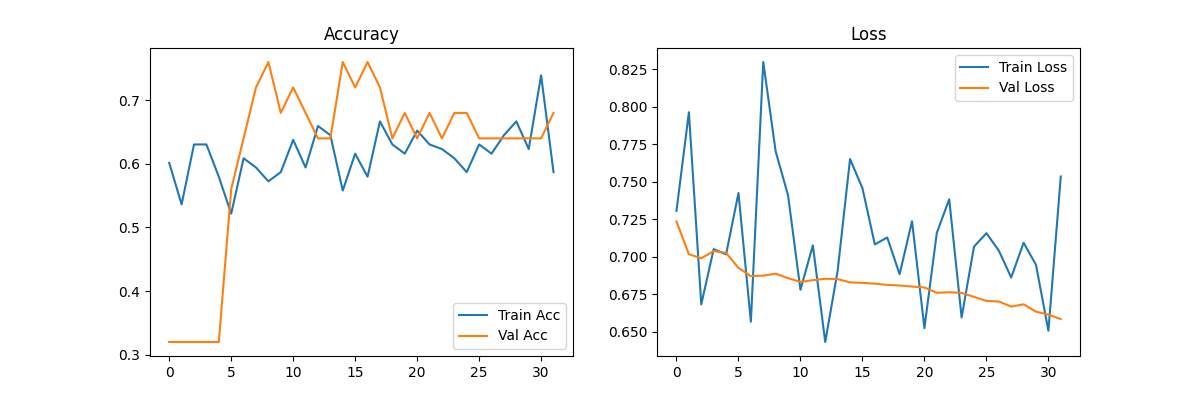
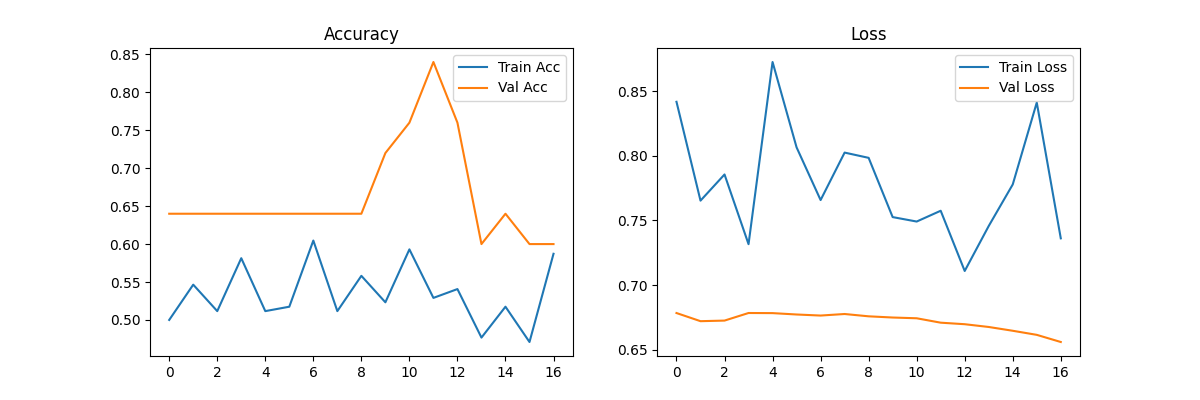
feat: MRI CNN model v0.2 - patient-level split, balanced dataset - AUC 0.64

diff --git a/scripts/train_mri_model.py b/scripts/train_mri_model.py
@@ -5,15 +5,15 @@ import tensorflow as tf
 from tensorflow.keras import layers, models
 from tensorflow.keras.applications import EfficientNetB4
 from tensorflow.keras.callbacks import ModelCheckpoint, EarlyStopping, ReduceLROnPlateau
-from sklearn.model_selection import train_test_split
+from sklearn.model_selection import GroupShuffleSplit
 from sklearn.utils import shuffle
 import matplotlib
 matplotlib.use('Agg')
 import matplotlib.pyplot as plt
 
 # ── CONFIG ──────────────────────────────────────────────
-AD_DIR   = 'datasets/converted_nii'
-CN_DIR   = 'datasets/converted_nii_cn'
+AD_DIR    = 'datasets/converted_nii'
+CN_DIR    = 'datasets/converted_nii_cn'
 MODEL_DIR = 'models'
 IMG_SIZE  = 128
 BATCH     = 8
@@ -24,54 +24,77 @@ os.makedirs(MODEL_DIR, exist_ok=True)
 def load_nii_slice(path, size=IMG_SIZE):
     try:
         img = nib.load(path).get_fdata()
-        # Take middle axial slice
+        if img.ndim < 3:
+            return None
         mid = img.shape[2] // 2
         slc = img[:, :, mid]
-        # Normalize
         slc = (slc - slc.min()) / (slc.max() - slc.min() + 1e-8)
-        # Resize to IMG_SIZE x IMG_SIZE
         slc = tf.image.resize(slc[..., np.newaxis], [size, size]).numpy()
-        # Convert to 3-channel for EfficientNet
         slc = np.concatenate([slc, slc, slc], axis=-1)
         return slc.astype(np.float32)
     except:
         return None
 
+# ── EXTRACT PATIENT ID FROM FILENAME ────────────────────
+def get_patient_id(filename):
+    # Format: 003_S_1059_xxx.nii → patient = 003_S_1059
+    parts = filename.split('_')
+    if len(parts) >= 3:
+        return f"{parts[0]}_{parts[1]}_{parts[2]}"
+    return filename
+
 # ── LOAD DATASET ────────────────────────────────────────
 print("Loading AD scans...")
-X, y = [], []
+X, y, groups = [], [], []
 
-for f in os.listdir(AD_DIR):
+for f in sorted(os.listdir(AD_DIR)):
     if f.endswith('.nii'):
         data = load_nii_slice(os.path.join(AD_DIR, f))
         if data is not None:
             X.append(data)
-            y.append(1)  # AD = 1
+            y.append(1)
+            groups.append(get_patient_id(f))
 
-print(f"  Loaded {y.count(1)} AD scans")
+print(f"  Loaded {sum(1 for label in y if label == 1)} AD scans")
 
 print("Loading CN scans...")
-for f in os.listdir(CN_DIR):
+for f in sorted(os.listdir(CN_DIR)):
     if f.endswith('.nii'):
         data = load_nii_slice(os.path.join(CN_DIR, f))
         if data is not None:
             X.append(data)
-            y.append(0)  # CN = 0
+            y.append(0)
+            groups.append(get_patient_id(f))
 
-print(f"  Loaded {y.count(0)} CN scans")
+print(f"  Loaded {sum(1 for label in y if label == 0)} CN scans")
 
 X = np.array(X)
 y = np.array(y)
-X, y = shuffle(X, y, random_state=42)
+groups = np.array(groups)
+X, y, groups = shuffle(X, y, groups, random_state=42)
 print(f"\nTotal dataset: {len(X)} scans | Shape: {X.shape}")
+print(f"Unique patients: {len(set(groups))}")
 
-# ── TRAIN/VAL/TEST SPLIT ────────────────────────────────
-X_train, X_test, y_train, y_test = train_test_split(
-    X, y, test_size=0.2, random_state=42, stratify=y)
-X_train, X_val, y_train, y_val = train_test_split(
-    X_train, y_train, test_size=0.15, random_state=42, stratify=y_train)
+# ── PATIENT-LEVEL TRAIN/TEST SPLIT ──────────────────────
+# This prevents data leakage — same patient never in both train and test
+gss = GroupShuffleSplit(n_splits=1, test_size=0.2, random_state=42)
+train_idx, test_idx = next(gss.split(X, y, groups))
+
+X_train, X_test = X[train_idx], X[test_idx]
+y_train, y_test = y[train_idx], y[test_idx]
+groups_train = groups[train_idx]
+
+# Validation split from training set
+gss_val = GroupShuffleSplit(n_splits=1, test_size=0.15, random_state=42)
+train_idx2, val_idx = next(gss_val.split(X_train, y_train, groups_train))
+
+X_val = X_train[val_idx]
+y_val = y_train[val_idx]
+X_train = X_train[train_idx2]
+y_train = y_train[train_idx2]
 
 print(f"Train: {len(X_train)} | Val: {len(X_val)} | Test: {len(X_test)}")
+print(f"Train AD: {sum(y_train)} | Train CN: {sum(y_train==0)}")
 
 # ── BUILD MODEL ─────────────────────────────────────────
 print("\nBuilding EfficientNetB4 model...")
@@ -80,7 +103,7 @@ base = EfficientNetB4(
     include_top=False,
     input_shape=(IMG_SIZE, IMG_SIZE, 3)
 )
-base.trainable = False  # Freeze base first
+base.trainable = False
 
 model = models.Sequential([
     base,
@@ -90,7 +113,7 @@ model = models.Sequential([
     layers.Dropout(0.5),
     layers.Dense(128, activation='relu'),
     layers.Dropout(0.3),
-    layers.Dense(1, activation='sigmoid')  # Binary: AD vs CN
+    layers.Dense(1, activation='sigmoid')
 ])
 
 model.compile(
@@ -141,11 +164,11 @@ loss, acc, auc = model.evaluate(X_test, y_test, verbose=0)
 print(f"Test Accuracy: {acc*100:.2f}%")
 print(f"Test AUC:      {auc:.4f}")
 
-# ── SAVE FINAL MODEL ────────────────────────────────────
+# ── SAVE ────────────────────────────────────────────────
 model.save(f'{MODEL_DIR}/mri_model_final.h5')
 print(f"\nModel saved to {MODEL_DIR}/mri_model_final.h5")
 
-# ── PLOT TRAINING CURVES ────────────────────────────────
+# ── PLOT ────────────────────────────────────────────────
 fig, (ax1, ax2) = plt.subplots(1, 2, figsize=(12, 4))
 ax1.plot(history.history['accuracy'], label='Train Acc')
 ax1.plot(history.history['val_accuracy'], label='Val Acc')
